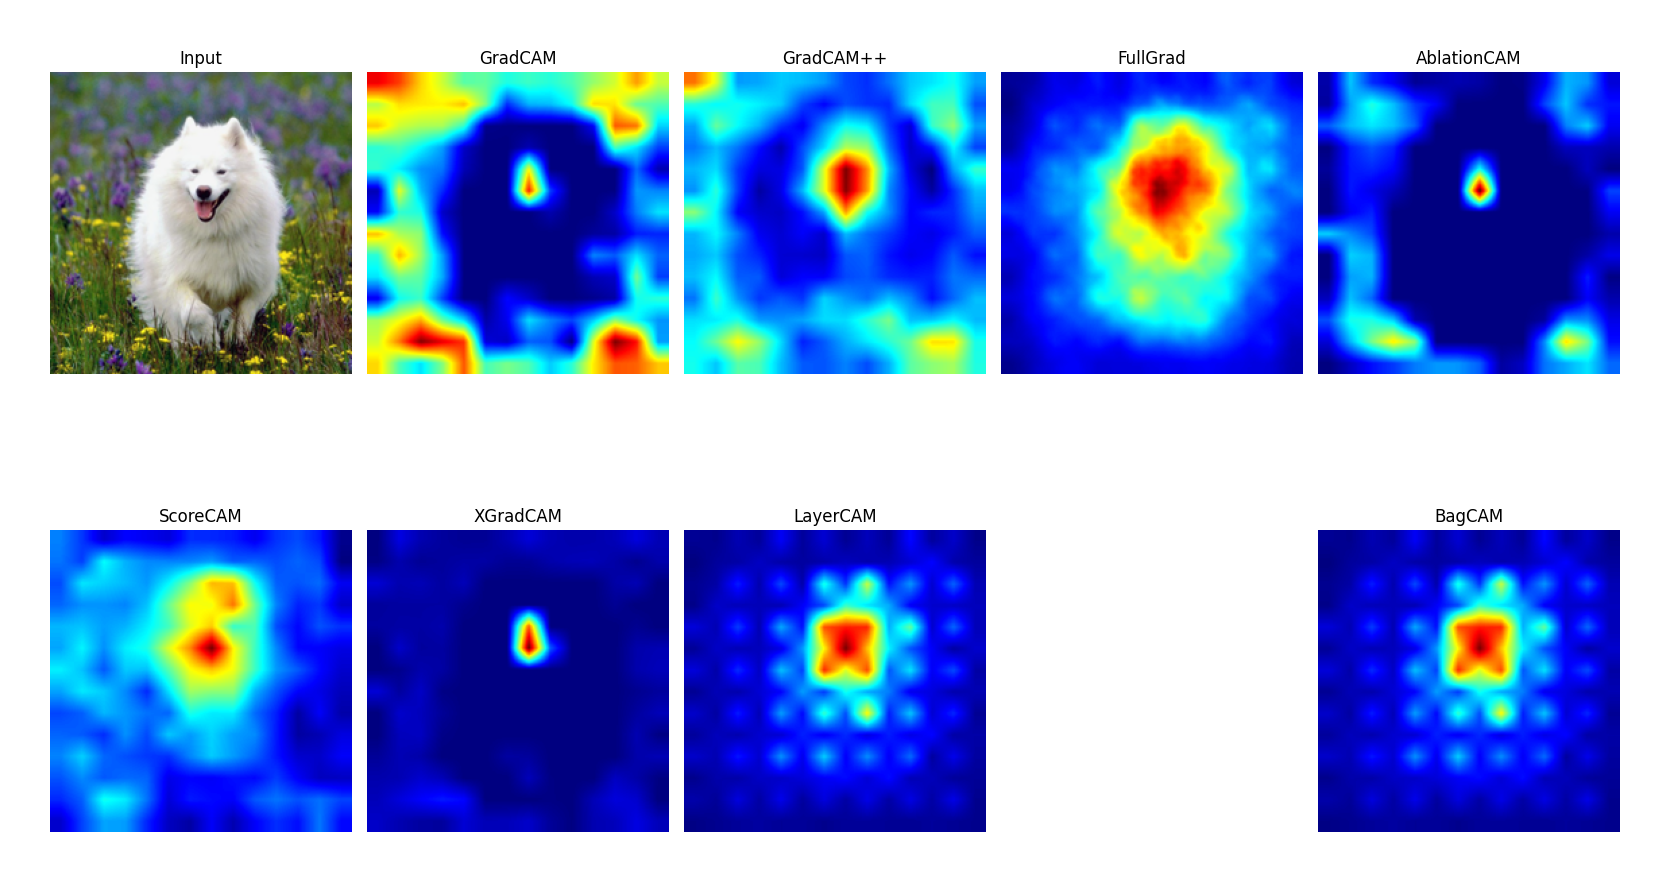
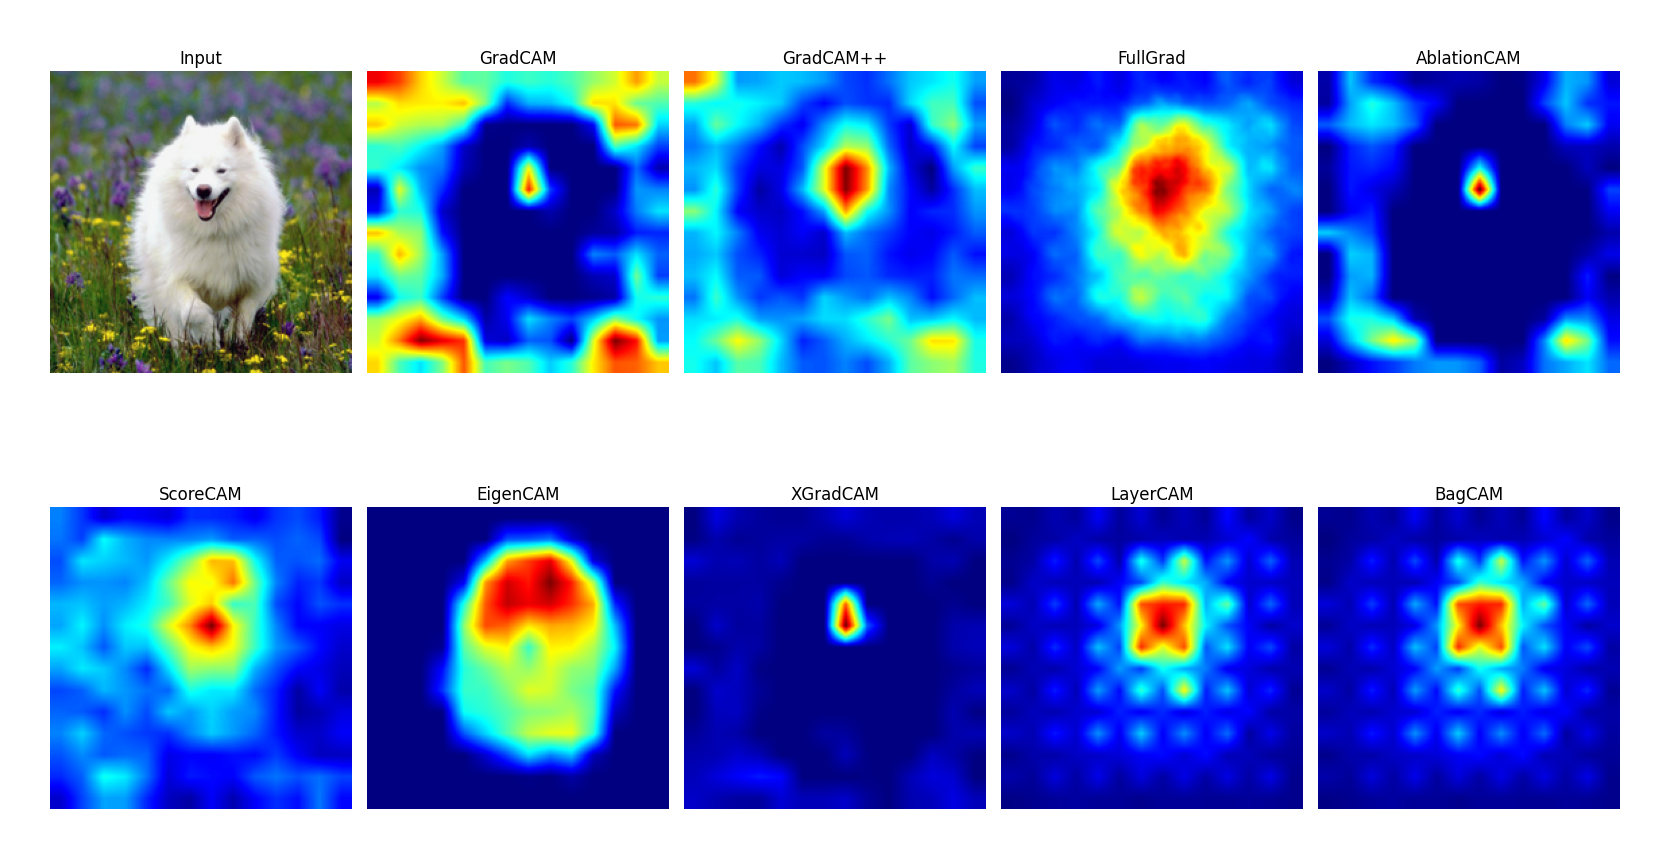
add EigenCAM

diff --git a/cam_visualization_examples.py b/cam_visualization_examples.py
@@ -6,7 +6,7 @@ from timm.data import resolve_model_data_config
 from timm.data.transforms_factory import create_transform
 import requests
 
-from attribution import GradCAM, GradCAMPlusPlus, XGradCAM, BagCAM, ScoreCAM, LayerCAM, AblationCAM, FullGrad
+from attribution import GradCAM, GradCAMPlusPlus, XGradCAM, BagCAM, ScoreCAM, LayerCAM, AblationCAM, FullGrad, EigenCAM
 from attribution.utils import normalize_saliency, visualize_single_saliency
 
 
@@ -91,6 +91,11 @@ if __name__ == '__main__':
     score_cam = normalize_saliency(scorecam_net.get_mask(img, target_index, target_layer))
     print('ScoreCAM', score_cam.shape)
     
+    # EigenCAM
+    eigencam_net = EigenCAM(model)
+    eigen_cam = normalize_saliency(eigencam_net.get_mask(img, target_index, target_layer))
+    print('EigenCAM', eigen_cam.shape)
+    
     # LayerCAM
     layercam_net = LayerCAM(model)
     layer_cam = normalize_saliency(layercam_net.get_mask(img, target_index, target_layer))
@@ -128,9 +133,12 @@ if __name__ == '__main__':
     plt.title('ScoreCAM')
     visualize_single_saliency(score_cam[0].unsqueeze(0))
     plt.subplot(2,5,7)
+    plt.title('EigenCAM')
+    visualize_single_saliency(eigen_cam[0].unsqueeze(0))
+    plt.subplot(2,5,8)
     plt.title('XGradCAM')
     visualize_single_saliency(xgrad_cam[0].unsqueeze(0))
-    plt.subplot(2,5,8)
+    plt.subplot(2,5,9)
     plt.title('LayerCAM')
     visualize_single_saliency(layer_cam[0].unsqueeze(0))
     plt.subplot(2,5,10)

diff --git a/attribution/eigen_cam.py b/attribution/eigen_cam.py
@@ -1,0 +1,33 @@
+from attribution.utils import get_2d_projection
+from .base import CAMWrapper
+
+import torch
+from torch.nn import functional as F
+from typing import List
+
+class EigenCAM(CAMWrapper):
+    def get_mask(self, img: torch.Tensor, 
+                 target_class: torch.Tensor, 
+                 target_layer: str | List[str]):
+        B, C, H, W = img.size()
+        self.model.eval()
+        self.model.zero_grad()
+        
+        # class-specific backpropagation
+        logits = self.model(img)
+        target = self._encode_one_hot(target_class, logits)
+        self.model.zero_grad()
+        logits.backward(gradient=target, retain_graph=True)
+        
+        # get feature maps and gradients
+        feature_maps = self._find(self.feature_maps, target_layer)
+        
+        # generate CAM
+        with torch.no_grad():
+            cam = get_2d_projection(feature_maps.cpu().numpy())
+            cam = torch.from_numpy(cam).to(self.device)[:, None, :, :]
+            cam = F.relu(cam)
+            cam = F.interpolate(cam, (H, W), mode='bilinear', align_corners=False)
+            cam = self.normalize_cam(cam)
+            
+        return cam

diff --git a/attribution/__init__.py b/attribution/__init__.py
@@ -11,3 +11,4 @@ from .score_cam import ScoreCAM
 from .layer_cam import LayerCAM
 from .ablation_cam import AblationCAM
 from .fullgrad_cam import FullGrad
+from .eigen_cam import EigenCAM
